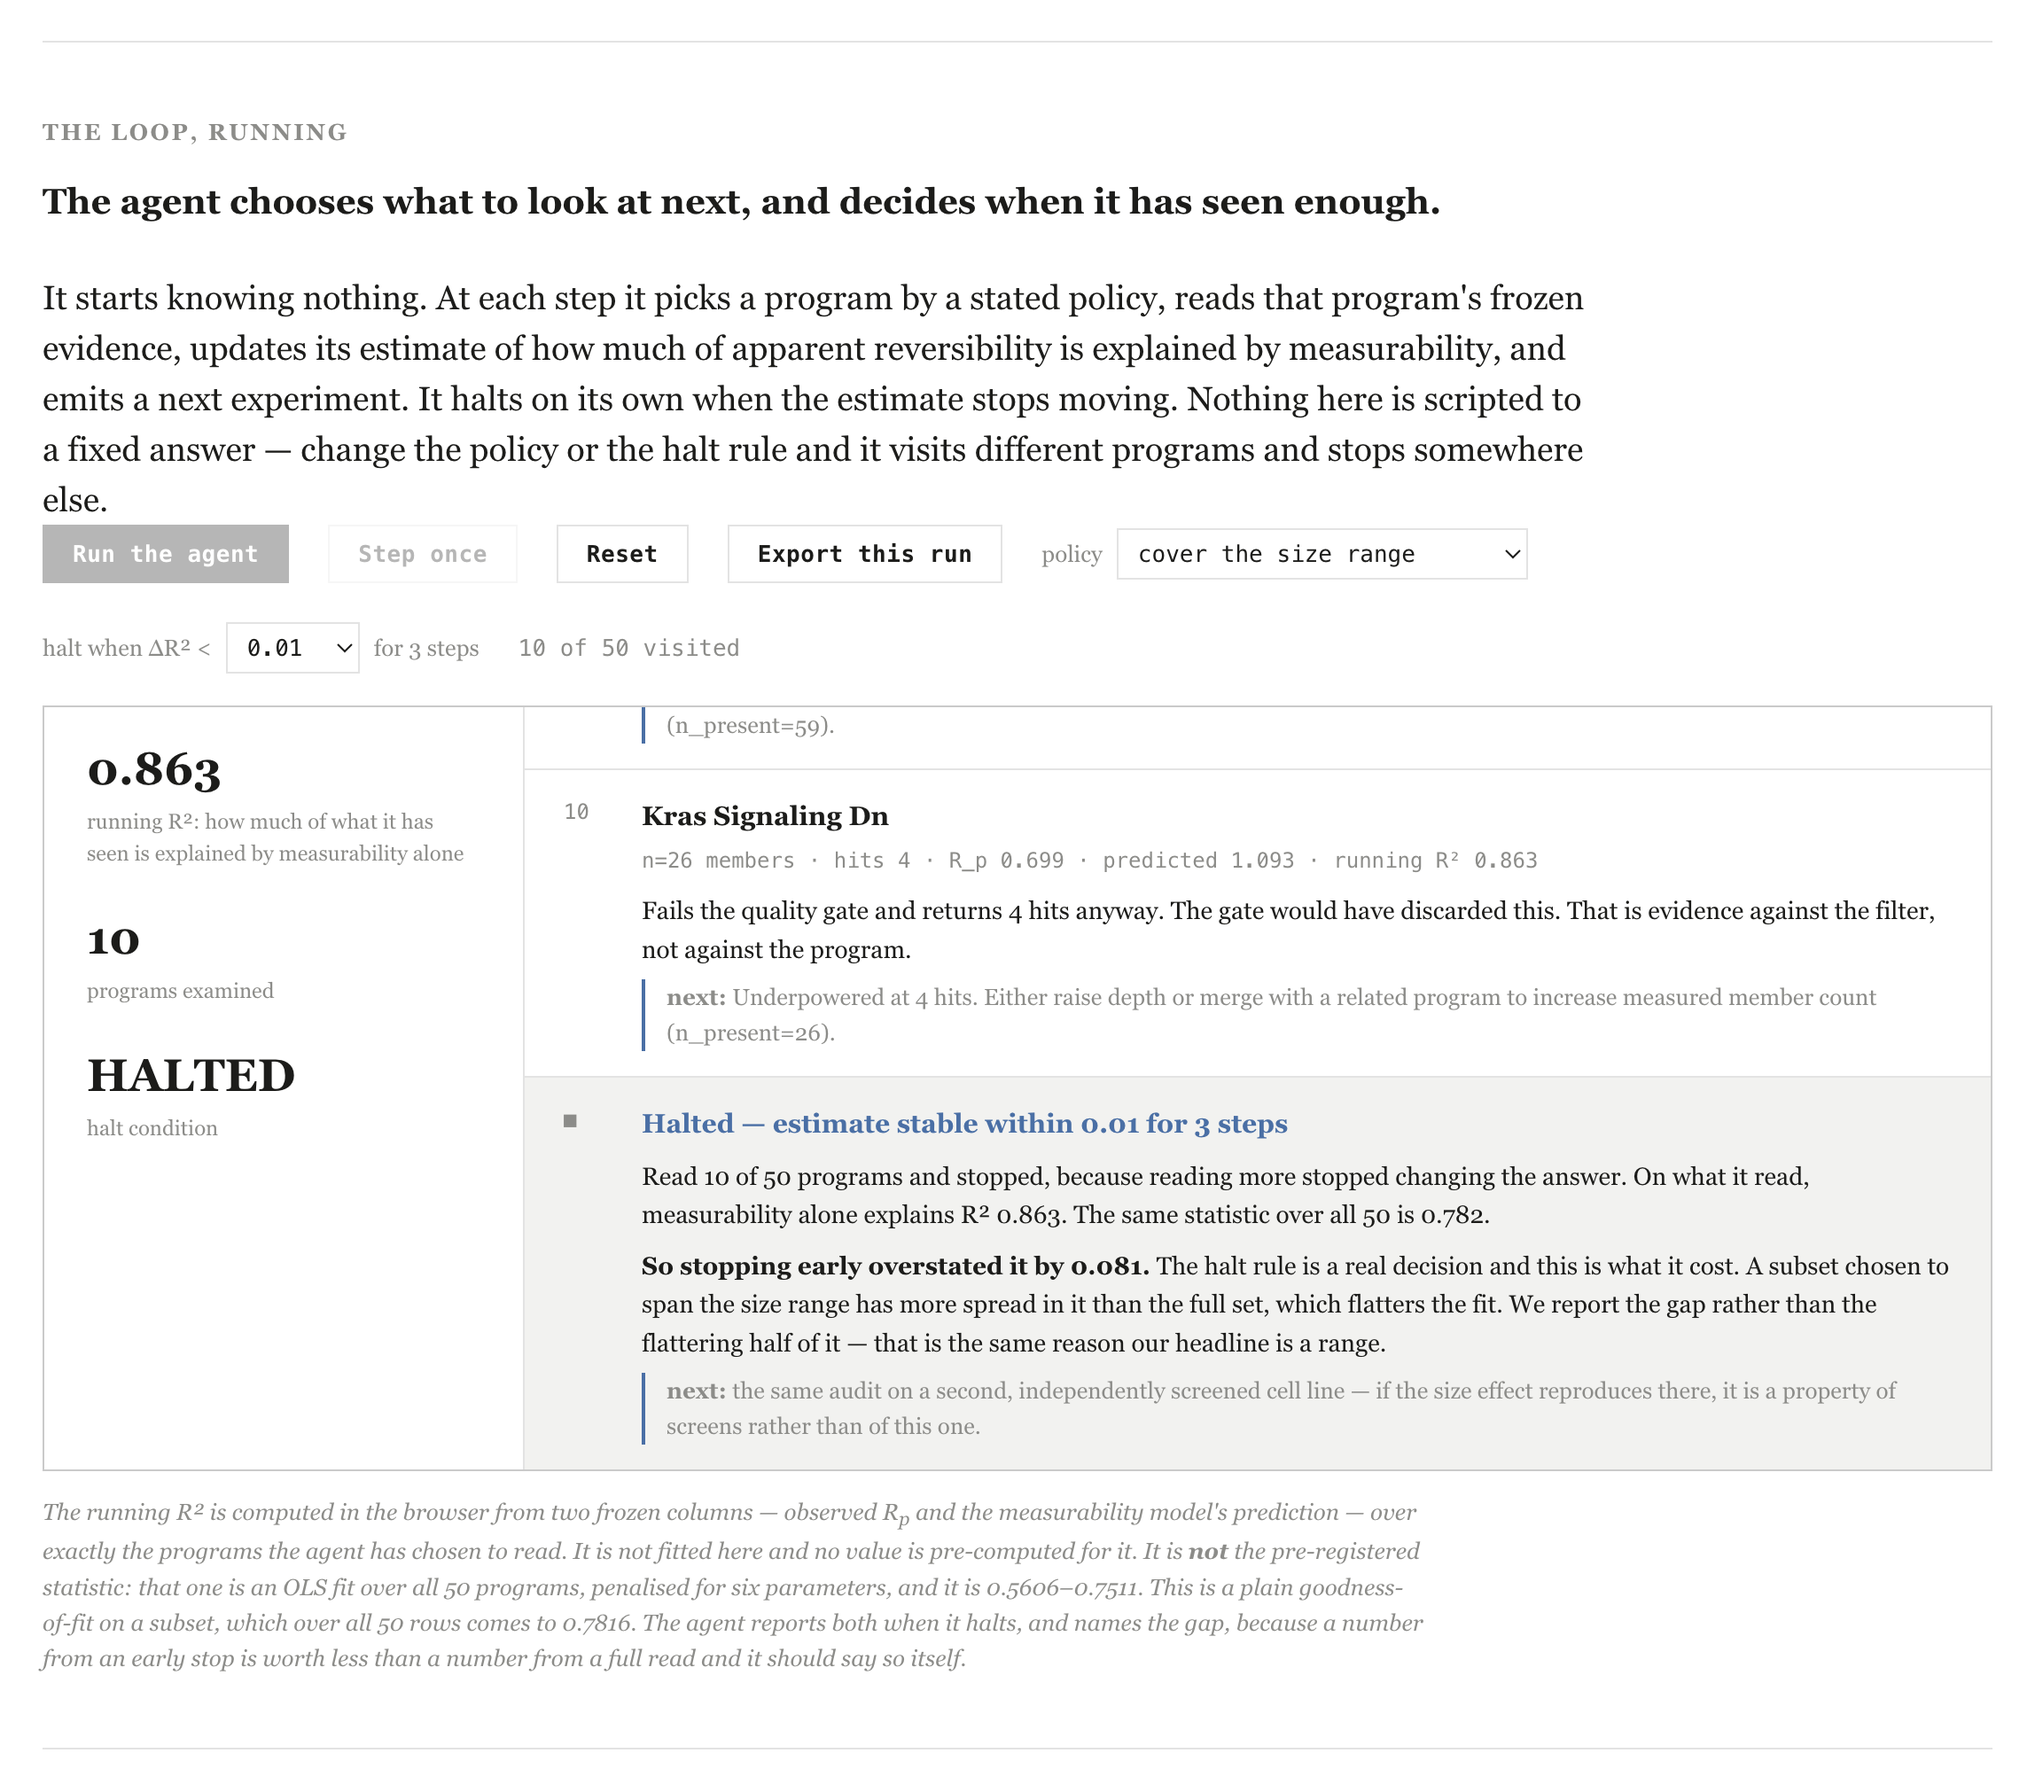
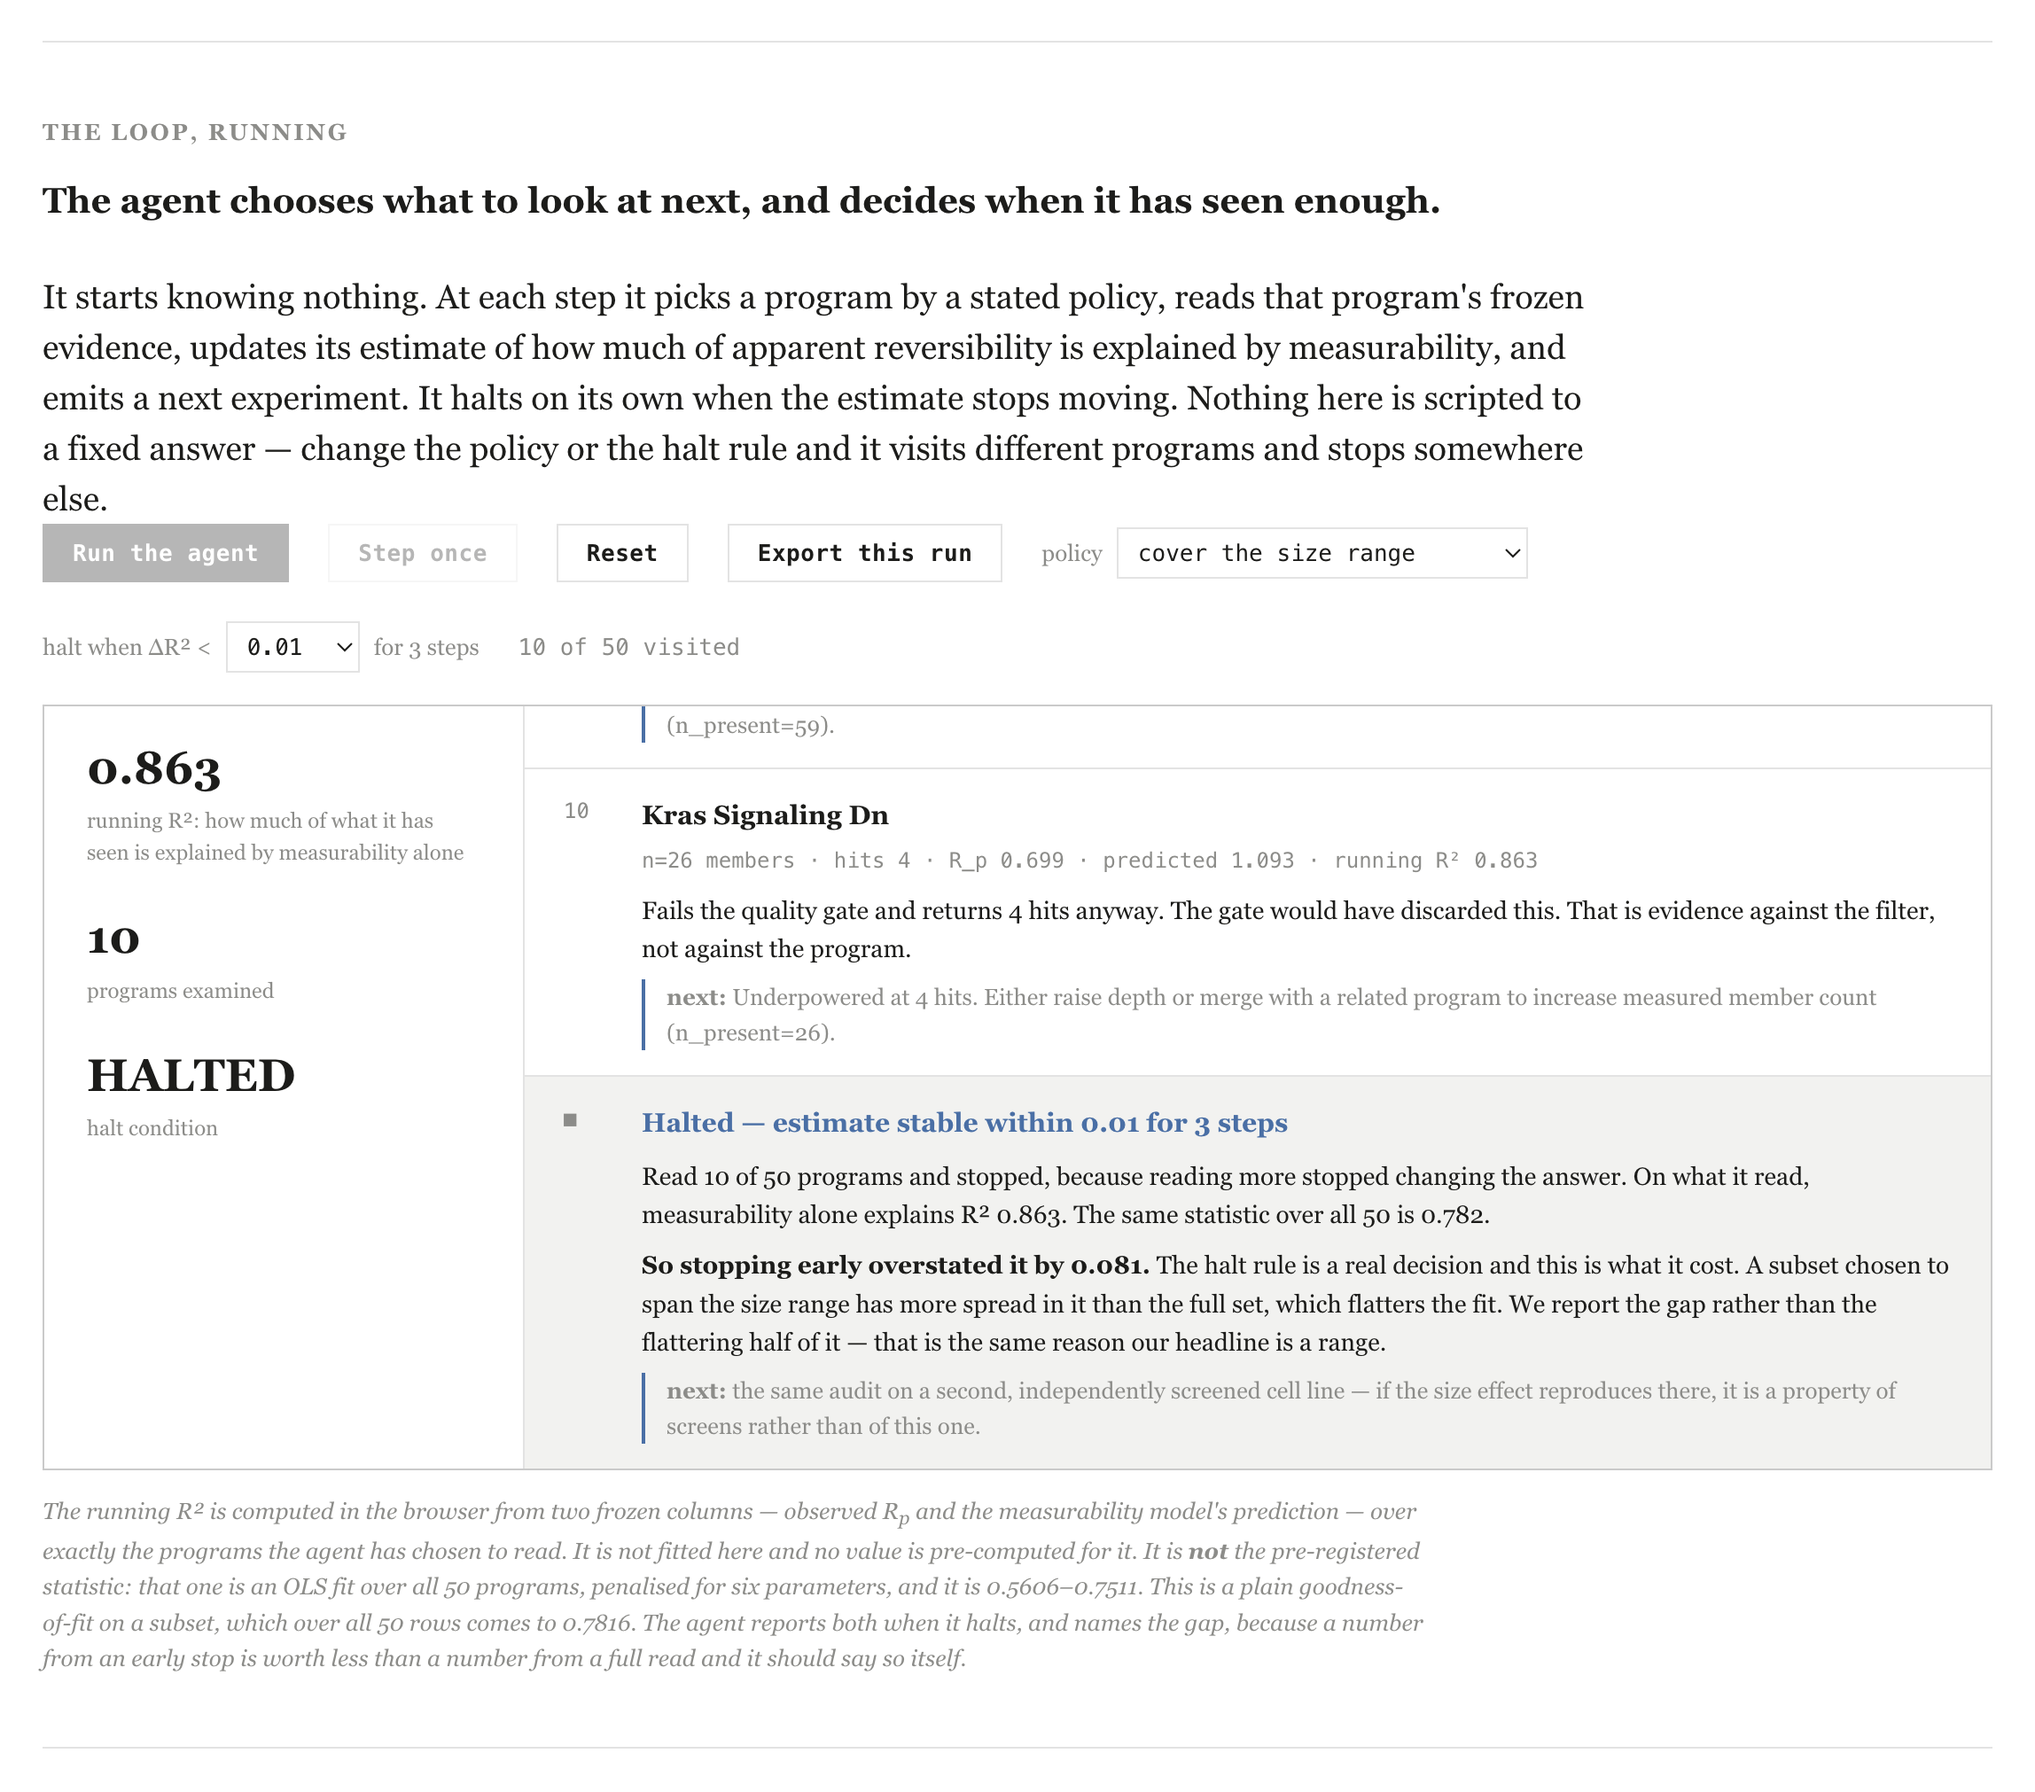
Re-shoot all four images, and drop a sentence the new hero had absorbed
The hero and the metrics block were both replaced in 60fd349, so every image in
docs/img/ was showing a page that no longer exists. All four re-shot against the
current build, each cropped to a live getBoundingClientRect() rather than to a
guessed offset. The agent loop was run to its own halt before capture: HALTED,
10 of 50 visited. The detail shot picks its row by walking the table until one
actually renders a .cmm panel, so that image cannot silently lose the
falsification block it exists to show.

Found while looking at the new hero: it now ends with "program size alone
explains 46.5%", and the very next paragraph said "The mechanism is size...
program size alone explains 46.5%" -- the same bolded figure twice, two
paragraphs apart. The hero absorbed that paragraph's content and the paragraph
was left behind. Removed. SIZE_R2 is traced once at its definition, so the
tracer count is unaffected.

309/309.

diff --git a/index.html b/index.html
@@ -228,9 +228,6 @@ to what any program does.</p>
 <p class="circ">The range is a range because one of our six features is computed
 from the same matrix as the outcome, so part of 0.751 is arithmetic. 0.561 is the
 figure that survives that objection, and we never quote the top alone.</p>
-<p class="mech">The mechanism is size. Bigger programs with more co-moving members
-return more hits regardless of what they do — <b>program size alone explains
-46.5%</b>.</p>
 </section>
 
 <!-- 2. metrics -->

diff --git a/src/build_page.py b/src/build_page.py
@@ -574,9 +574,6 @@ to what any program does.</p>
 <p class="circ">The range is a range because one of our six features is computed
 from the same matrix as the outcome, so part of {R_HI:.3f} is arithmetic. {R_LO:.3f} is the
 figure that survives that objection, and we never quote the top alone.</p>
-<p class="mech">The mechanism is size. Bigger programs with more co-moving members
-return more hits regardless of what they do — <b>program size alone explains
-{SIZE_R2*100:.1f}%</b>.</p>
 </section>
 
 <!-- 2. metrics -->
